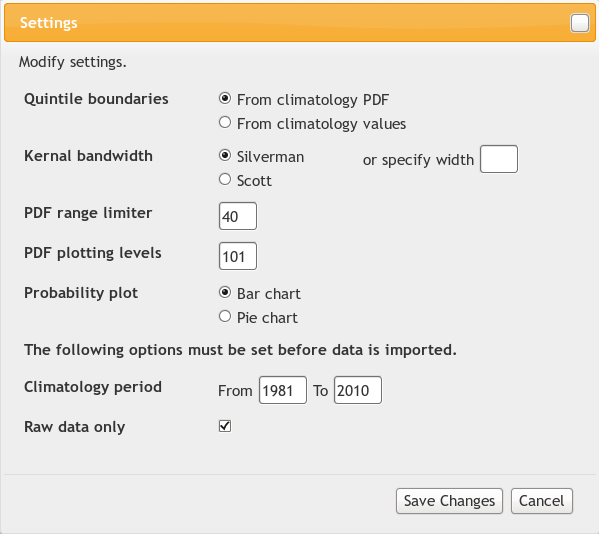
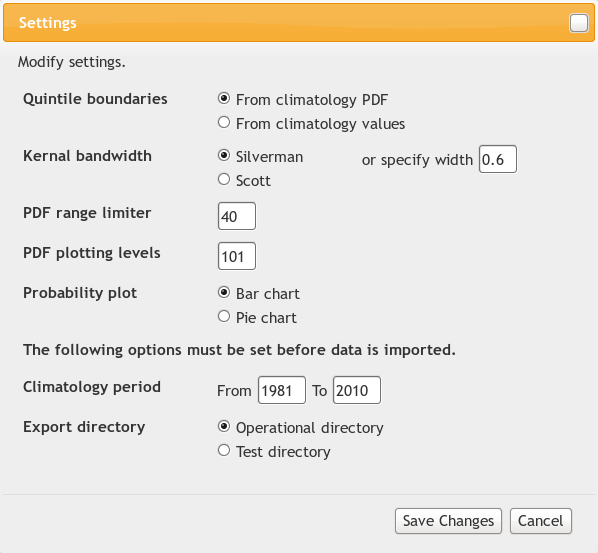
Updated help pages

diff --git a/tech_help.html b/tech_help.html
@@ -75,17 +75,27 @@
       <ol>
         <li><b>import_directory</b> - This is the only directory that MUST be correct. The tool loads all the initial data from this directory and expects a very specific file format. At time of writing, this folder is:<br><br>
         /home/h02/frgo/TEST/jhirst_plots/new_caboff_plots/plots_N216/</li><br>
-        <li><b>export_directory</b> - This is the directory where the outputs are saved. This can be any directory. <i>Note, when exporting with the tool, you are told exactly where the output files have beed saved, which will be in the directory specified here.</i></li><br>
-        <li><b>temp_directory</b> - When building the output files, temporary files are created (and then deleted once not needed). Here you can specify which folder this is done in. A simple option is to set this to be the same as the export_directory.</li><br>
+        <li><b>operational_dir</b> - The directory for exported data when working operationally.</li><br>
+        <li><b>testing_dir</b> - The directory for exported data when testing.</li>
       </ol>
-      <br>
+      <i>Note, the choice between using the operational and the testing directory is made in the settings, before data is imported. When exporting with the tool, you are told the filepath where the output files have beed saved.</i>
+      <br><br>
 
 
 	    <h1 id="run_tool">Running the tool</h1><br>
 	    <p>All the code for the tool is self contained in a folder called SeasonalForecastPDF. This is located here (at the time of writing):<br><br>
 	    /net/home/h02/sstanley/packages/SeasonalForecastPDF/<br><br>
-	    To run the Python scripts which fetch the data, the page requires a server. As it happens, Python has a module which turns any computer into a simple server, perfect for these purposes.<br>
-            To get the server running, follow these steps:</p><br>
+	    To run the Python scripts which fetch the data, the page requires a server. As it happens, Python has a module which turns any computer into a simple server, perfect for these purposes.</p>
+	    <p>The simplist way to do this is to run the shell script <i>fcst_tool_server.sh</i> found in the SeasonalForecastPDF directory:</p>
+	    <ol>
+	      <li><p>Open up a terminal and run:</p>
+	      <p style='font-family:"Courier New", Courier, monospace'>/net/home/h02/sstanley/packages/SeasonalForecastPDF/fcst_tool_server.sh</p></li>
+	      <p><i>Note, this is assuming the SeasonalForecastPDF directory has not been moved.</i></p>
+	    </ol>
+            <p>You should get a message something like "Serving HTTP on 0.0.0.0 port 8000 ...". Printed just above this is the url to the forecast tool, something like "http://eld123:8000/forecast_tool.html".</p>
+	    <br>
+
+	    <p>If for some reason the script is not working, you can get the server running mannually with follow these steps:</p>
 	    <ol>
 	      <li><p>Open up a terminal and move to the tool's directory. This is the above directory unless it has been moved.</p>
 	      <p style='font-family:"Courier New", Courier, monospace'>cd /net/home/h02/sstanley/packages/SeasonalForecastPDF/</p></li>

diff --git a/user_guide.html b/user_guide.html
@@ -157,9 +157,9 @@
 	      <li><b>PDF plotting levels</b> - A PDF is a function. To plot it, x values must be given to the function to produce y values. The number of plotting levels is simply how many x values are fed to the function along the range. The more levels, the smoother the plot will look. Like with the range limiter (above), this only affects the visual (as any calculations use the actual function, not these xy values).</li>
 	      <li><b>Probability plot</b> - Choose whether to display the resulting forecast probabilities on a bar chart (default) or pie chart.</li>
 	      <li><b>Climatology period</b> - Choose the period which acts as the reference to normal conditions. In general a 30 year period is large enough to represent the true spread and small enough to exclude any trends.</li>
-	      <li><b>Raw data only</b> - If ticked (default), only data before any previous modification is read in. If unticked, the lastest version of data is read in, i.e. if data has been previously modified, this version is imported - with no reference to the unmodified data - if no modified data exists, raw data is imported.</li>
+	      <li><b>Export directory</b> - Choose where the exported data is saved. <i>Note, the location of each directory is set in the Python module, see <a href="tech_help.html#set_up">Technical Help</a> for how to change these.</i></li>
 	    </ul>
-	    <p><i>Note, all but the climatology period and the raw data only option can be changed and updated after loading in the data, use </i><button type="button" class="btn btn-success btn-xs">Update</button><i> to implement the changes.</i></p><br>
+	    <p><i>Note, all but the climatology period and the export directory can be changed and updated after loading in the data, use </i><button type="button" class="btn btn-success btn-xs">Update</button><i> to implement the changes.</i></p><br>
 
 	    <h1 id="export">Exporting</h1><br>
 	    <p>Once you are happy with a forecast, simply press <button type="button" class="btn btn-danger btn-xs">Export</button> and the data for that variable and period (given by the current <a href="#data_tabs">data tab</a>) will be saved to file. The file location is then displayed on screen.</p><br>

diff --git a/cgi-bin/forecast_handler.py b/cgi-bin/forecast_handler.py
@@ -29,8 +29,8 @@ import json
 
 import_directory = '/home/h02/frgo/TEST/jhirst_plots/new_caboff_plots'\
                    '/plots_N216/'
-test_dir = "/home/h02/sstanley/temp/"
-oper_dir = "/windows/m-drive/metoffice/Production/Operations_Centre/_Public_Write/3_Month_Outlook/Exported_Data"
+testing_dir = "/home/h02/sstanley/temp/"
+operational_dir = "/windows/m-drive/metoffice/Production/Operations_Centre/_Public_Write/3_Month_Outlook/Exported_Data"
 
 
 VARS = ['precip', 't2m']
@@ -1125,9 +1125,9 @@ def export_data(data_dict):
 
     """
     if data_dict['export_directory'] == 'operational':
-        export_dir = oper_dir
+        export_dir = operational_dir
     elif data_dict['export_directory'] == 'testing':
-        export_dir = test_dir
+        export_dir = testing_dir
     
     exporter = ExportHandler(variable=data_dict['variable'],
                              iss_month=data_dict['iss_month'],
